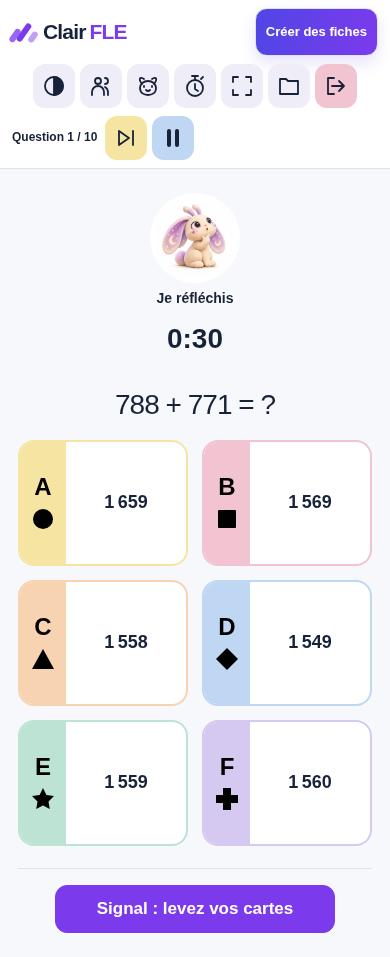
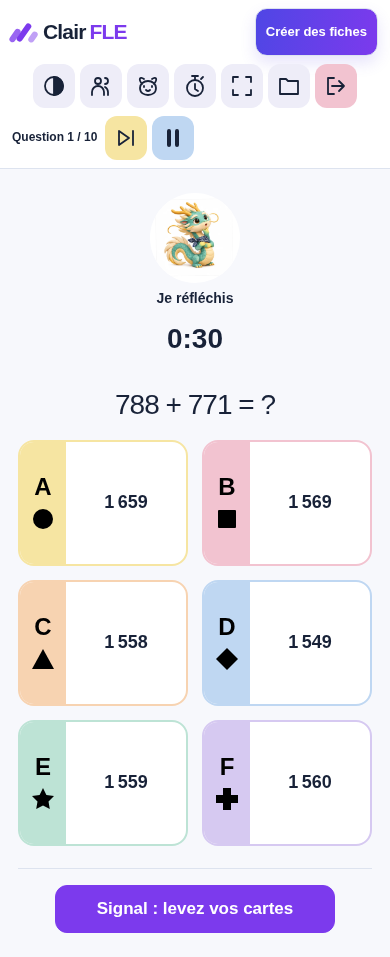
Add Asian dragon and animate every mascot pose

Changed region(s): [[0.4, 0.2121, 0.5846, 0.303]]

diff --git a/src/App.css b/src/App.css
@@ -40,7 +40,7 @@ body { font-size: 16px; }
 @media(max-width:850px){.topbar nav{display:none}.hero{grid-template-columns:1fr;gap:35px;padding-top:45px}.workspace{grid-template-columns:1fr}.settings-panel{border-right:0;border-bottom:1px solid var(--line)}.info-band{grid-template-columns:1fr 1fr}.info-band>p{grid-column:span 2}.footer{flex-wrap:wrap;gap:12px}}@media(max-width:550px){.topbar{height:68px;padding:0 16px}.topbar .button{font-size:calc(11px * var(--app-font-scale, 1));padding:10px 12px}.hero{min-height:auto;padding:40px 18px 48px}.hero h1{font-size:clamp(calc(38px * var(--app-font-scale, 1)),calc(12vw * var(--app-font-scale, 1)),calc(48px * var(--app-font-scale, 1)))}.hero-actions{align-items:flex-start;flex-direction:column;gap:16px}.landing-art{min-height:270px}.subject-section{padding:50px 18px 65px}.subject-grid{grid-template-columns:1fr}.info-band{grid-template-columns:1fr;padding:50px 24px;gap:22px}.info-band>p{grid-column:auto}.footer{padding:25px 20px;flex-direction:column;gap:10px}.generator-page{padding:35px 12px 65px}.generator-intro h1{font-size:calc(38px * var(--app-font-scale, 1))}.settings-panel{padding:20px 16px}.result-head{padding:22px 16px}.sheet-stage{padding:15px 0;overflow:hidden}.exercise-grid{grid-template-columns:1fr}.result-actions{padding:20px 16px;flex-direction:column}.preview-tabs{justify-content:center}}
 @page a5-double{size:A4 landscape;margin:0}
 @media print{@page{size:A4 portrait;margin:0}body{background:#fff}.no-print,.topbar,.generator-intro,.settings-panel,.result-head,.result-actions,.preview-tabs,.coord-page-palette{display:none!important}.generator-page{padding:0}.workspace{display:block;border:0;box-shadow:none}.result-panel{background:#fff}.sheet-stage{display:block;padding:0}.sheet-stage .worksheet-sheet{width:210mm;min-height:297mm;margin:0;transform:none;border:0;box-shadow:none}.sheet-stage .worksheet-sheet.is-a5-double{page:a5-double;width:297mm;min-height:210mm;height:210mm;max-height:210mm;flex-direction:row;padding:0}.exercise-item{break-inside:avoid}}
-@media(prefers-reduced-motion:reduce){*{scroll-behavior:auto!important;transition:none!important;animation:none!important}}
+@media(prefers-reduced-motion:reduce){*:not([data-ci-motion]){scroll-behavior:auto!important;transition:none!important;animation:none!important}}
 .generator-intro{display:none!important}.settings-panel{display:flex;flex-direction:column}.settings-panel .panel-title{order:1}.settings-panel .page-tabs{order:2}.settings-panel .field-group{order:3}.settings-panel .exercise-types,.exercise-types{order:4;margin:0 0 22px}.settings-panel>.exercise-types{display:block!important;visibility:visible!important}.settings-panel>.panel-title{order:1}.settings-panel>.page-tabs{order:2}.settings-panel>.field-group{order:3}.settings-panel .custom-header-form{order:5}.settings-panel .settings-actions{order:6}.settings-panel .exercise-types .section-heading{margin-top:0}.settings-panel .section-heading{align-items:baseline;margin-bottom:10px}.settings-panel .section-heading h3{font-size:calc(18px * var(--app-font-scale, 1))}.settings-panel .section-heading .eyebrow{font-size:calc(10px * var(--app-font-scale, 1));margin-bottom:4px}.settings-panel .exercise-type-grid{grid-template-columns:repeat(2,minmax(0,1fr));gap:10px}.settings-panel .exercise-type-card{min-height:132px;border-radius:16px;padding:12px;gap:5px}.settings-panel .type-visual{height:42px}.settings-panel .type-visual b{font-size:calc(15px * var(--app-font-scale, 1))}.settings-panel .type-visual .geometry-figure{height:42px}.settings-panel .exercise-type-card strong{font-size:calc(13px * var(--app-font-scale, 1))}.settings-panel .exercise-type-card small{font-size:calc(10px * var(--app-font-scale, 1));line-height:1.25}.exercise-types{margin:28px 0 20px}.section-heading{display:flex;align-items:end;justify-content:space-between;margin-bottom:14px}.section-heading h3{margin:5px 0 0;font-size:calc(22px * var(--app-font-scale, 1))}.muted{color:var(--muted);font-size:calc(12px * var(--app-font-scale, 1))}.exercise-type-grid{display:grid;grid-template-columns:repeat(4,minmax(0,1fr));gap:12px}.exercise-type-card{min-height:150px;border:1px solid var(--line);border-radius:18px;background:#fff;padding:14px;text-align:left;display:flex;flex-direction:column;gap:7px;transition:.2s;box-shadow:0 3px 12px #28252f08}.exercise-type-card:hover,.exercise-type-card.selected{border-color:#72b7a7;transform:translateY(-2px);box-shadow:0 8px 18px #3587761c}.exercise-type-card.selected{background:#f4fbf8}.exercise-type-card strong{font-size:calc(14px * var(--app-font-scale, 1))}.exercise-type-card small{color:var(--muted);font-size:calc(11px * var(--app-font-scale, 1));line-height:1.35}.type-visual{height:58px;display:flex;align-items:center;color:#358776}.type-visual b{white-space:pre-line;font-size:calc(17px * var(--app-font-scale, 1));line-height:1.1}.exercise-item .item-content>strong{white-space:pre-line;display:block}.exercise-item .item-content .answer-line{min-width:115px}.type-visual .geometry-figure{width:74px;height:52px;margin:0}@media(max-width:850px){.exercise-type-grid{grid-template-columns:repeat(2,minmax(0,1fr))}}@media(max-width:550px){.exercise-type-grid{grid-template-columns:1fr 1fr;gap:8px}.exercise-type-card{min-height:136px;padding:11px}.exercise-type-card strong{font-size:calc(12px * var(--app-font-scale, 1))}.exercise-type-card small{font-size:calc(10px * var(--app-font-scale, 1))}}.page-tabs{display:flex;gap:8px;flex-wrap:wrap;margin:0 0 18px}
 .page-tabs button,.mode-toggle.is-tabs button{
   position:relative;display:flex;align-items:center;justify-content:center;

diff --git a/src/interactive/projection.css b/src/interactive/projection.css
@@ -639,9 +639,6 @@
 @media screen and (max-width: 700px) {
   .ci-app .ci-result-portrait { width: 96px; margin: auto; }
 }
-@media (prefers-reduced-motion: reduce) {
-  .ci-confetti, .ci-tears { display: none; }
-}
 
 .ci-app .ci-mascot {
   display: inline-grid;
@@ -710,4 +707,40 @@
   .ci-solo-session.ci-is-revealed .ci-margin-left { grid-row: 2; }
   .ci-solo-session.ci-is-revealed .ci-margin-left:empty { display: none; }
   .ci-app .ci-solo-session.ci-is-revealed .ci-round-questions { grid-row: 3; }
+}
+
+.ci-app[data-mascot='dragon'] .ci-mascot-sprite { background-image: url('/lib/images/interactive/dragon-mascot.webp'); }
+
+/* Mascot motion is always enabled, including under reduced-motion device settings. */
+.ci-mascot-sprite { transform-origin: 50% 70%; }
+.ci-mascot-thinking { animation: ci-mascot-think 3s ease-in-out infinite; }
+.ci-mascot-cards-up { animation: ci-mascot-vote 1.8s ease-in-out infinite; }
+.ci-mascot-discussion { animation: ci-mascot-talk 1.4s ease-in-out infinite; }
+.ci-mascot-correct { animation: ci-mascot-celebrate .9s ease-in-out infinite; }
+.ci-mascot-incorrect { animation: ci-mascot-sigh 2s ease-in-out infinite; }
+.ci-mascot-pause { animation: ci-mascot-breathe 3.2s ease-in-out infinite; }
+@keyframes ci-mascot-think {
+  0%, 100% { transform: translateY(0) rotate(-1deg); }
+  50% { transform: translateY(-3px) rotate(1.5deg); }
+}
+@keyframes ci-mascot-vote {
+  0%, 100% { transform: translateY(0) rotate(-2deg); }
+  50% { transform: translateY(-5px) rotate(2deg); }
+}
+@keyframes ci-mascot-talk {
+  0%, 100% { transform: translateY(0) rotate(-1deg); }
+  50% { transform: translateY(-3px) rotate(2deg) scale(1.015); }
+}
+@keyframes ci-mascot-celebrate {
+  0%, 100% { transform: translateY(0) scale(1); }
+  45% { transform: translateY(-7px) scale(1.025); }
+  75% { transform: translateY(1px) scale(.98, 1.02); }
+}
+@keyframes ci-mascot-sigh {
+  0%, 100% { transform: translateY(0) rotate(-1.5deg); }
+  50% { transform: translateY(3px) rotate(1.5deg) scale(.985); }
+}
+@keyframes ci-mascot-breathe {
+  0%, 100% { transform: scale(1); }
+  50% { transform: scale(1.025); }
 }

diff --git a/tests/interactive/mascot-fixture.tsx b/tests/interactive/mascot-fixture.tsx
@@ -1,0 +1,23 @@
+import { createRoot } from 'react-dom/client'
+import { Mascot, type MascotPose } from '../../src/interactive/components/Mascot'
+import { MASCOTS } from '../../src/interactive/domain/mascot'
+import { ResultFeedback } from '../../src/interactive/components/ResultFeedback'
+
+const poses: MascotPose[] = ['thinking', 'cards-up', 'discussion', 'correct', 'incorrect', 'pause']
+export function mountMascots() {
+  const container = document.createElement('div')
+  container.id = 'mascot-test-root'
+  document.body.append(container)
+  createRoot(container).render(<>
+    {MASCOTS.map((mascot) => <section key={mascot.id} className="ci-app" data-mascot={mascot.id} style={{ display: 'grid', gridTemplateColumns: 'repeat(6, 120px)', gap: 16, padding: 24 }}>
+      <h2 style={{ gridColumn: '1 / -1' }}>{mascot.label}</h2>
+      {poses.map((pose) => <div key={pose} data-test-mascot={mascot.id} data-test-pose={pose} style={{ width: 110 }}>
+        <Mascot pose={pose} label={`${mascot.label} ${pose}`} className="ci-phase-art" />
+        <p>{pose}</p>
+      </div>)}
+    </section>)}
+    <section className="ci-app" data-mascot="dragon" data-test-effects style={{ display: 'flex', gap: 32, padding: 40 }}>
+      <ResultFeedback correct /><ResultFeedback correct={false} />
+    </section>
+  </>)
+}

diff --git a/src/interactive/components/ResultFeedback.tsx b/src/interactive/components/ResultFeedback.tsx
@@ -9,10 +9,10 @@ export function ResultFeedback({ correct }: { correct: boolean }) {
       {correct ? (
         <div className="ci-confetti">
           {Array.from({ length: 24 }, (_, i) => (
-            <i key={i} style={{ '--i': i, '--x': `${Math.sin(i * 2.4) * 115}px`, '--y': `${-35 - (i % 5) * 24}px`, '--spin': `${(i % 2 ? 1 : -1) * (180 + i * 33)}deg`, '--confetti': ['#ffe27b', '#a6d7bc', '#c2b2ee', '#f7a1b9', '#91c5ee'][i % 5] } as CSSProperties} />
+            <i data-ci-motion key={i} style={{ '--i': i, '--x': `${Math.sin(i * 2.4) * 115}px`, '--y': `${-35 - (i % 5) * 24}px`, '--spin': `${(i % 2 ? 1 : -1) * (180 + i * 33)}deg`, '--confetti': ['#ffe27b', '#a6d7bc', '#c2b2ee', '#f7a1b9', '#91c5ee'][i % 5] } as CSSProperties} />
           ))}
         </div>
-      ) : <div className="ci-tears"><i /><i /><i /><i /></div>}
+      ) : <div className="ci-tears"><i data-ci-motion /><i data-ci-motion /><i data-ci-motion /><i data-ci-motion /></div>}
     </div>
   )
 }

diff --git a/src/interactive/components/Mascot.tsx b/src/interactive/components/Mascot.tsx
@@ -1,5 +1,5 @@
 export type { MascotKind } from '../domain/mascot'
 export type MascotPose = 'thinking' | 'cards-up' | 'discussion' | 'correct' | 'incorrect' | 'pause'
 export function Mascot({ pose, label, className = '' }: { pose: MascotPose; label: string; className?: string }) {
-  return <span className={`ci-mascot ${className}`} role="img" aria-label={label}><span className={`ci-mascot-sprite ci-mascot-${pose}`} /></span>
+  return <span className={`ci-mascot ${className}`} role="img" aria-label={label}><span data-ci-motion className={`ci-mascot-sprite ci-mascot-${pose}`} /></span>
 }

diff --git a/src/interactive/domain/mascot.ts b/src/interactive/domain/mascot.ts
@@ -1,8 +1,9 @@
-export type MascotKind = 'leaf' | 'owl' | 'octopus' | 'hedgehog' | 'rabbit'
+export type MascotKind = 'leaf' | 'owl' | 'octopus' | 'hedgehog' | 'rabbit' | 'dragon'
 export const MASCOTS: { id: MascotKind; label: string }[] = [
   { id: 'leaf', label: 'Esprit feuille' },
   { id: 'owl', label: 'Hibou' },
   { id: 'octopus', label: 'Pieuvre' },
   { id: 'hedgehog', label: 'Hérisson' },
   { id: 'rabbit', label: 'Lapin lunaire' },
+  { id: 'dragon', label: 'Dragon' },
 ]

diff --git a/src/interactive/interactive.css b/src/interactive/interactive.css
@@ -1058,7 +1058,7 @@
   }
 }
 @media (prefers-reduced-motion: reduce) {
-  .ci-app * {
+  .ci-app *:not([data-ci-motion]) {
     animation: none !important;
     transition: none !important;
     scroll-behavior: auto !important;

diff --git a/docs/interactive/livraison-classe-solo-mascottes.md b/docs/interactive/livraison-classe-solo-mascottes.md
@@ -13,9 +13,9 @@ En Solo, toutes les questions audio sélectionnées sont conservées individuell
 
 ## Mascottes
 
-Cinq choix mémorisés localement : **Esprit feuille**, **Hibou**, **Pieuvre**, **Hérisson**, **Lapin lunaire**. Chaque personnage a six poses : réflexion, vote, discussion, juste, faux et pause. Les cinq planches WebP ont été générées pour cette évolution ; les poses sont affichées par coordonnées CSS dans la même planche, sans téléchargement d’un fichier par état.
+Six choix mémorisés localement : **Esprit feuille**, **Hibou**, **Pieuvre**, **Hérisson**, **Lapin lunaire**, **Dragon asiatique**. Chaque personnage a six poses : réflexion, vote, discussion, juste, faux et pause. Les six planches WebP ont été générées pour cette évolution ; les poses sont affichées par coordonnées CSS dans la même planche, sans téléchargement d’un fichier par état.
 
-Une réponse juste en Solo affiche la mascotte qui félicite et une explosion de confettis ; une réponse fausse affiche la mascotte triste et des larmes animées. Les animations sont décoratives, limitées à quelques secondes et désactivées avec `prefers-reduced-motion`. Le verdict reste écrit indépendamment de l’animation. Les douze animaux du zodiaque sont des propositions visuelles soumises au propriétaire, pas des choix intégrés.
+Une réponse juste en Solo affiche la mascotte qui félicite et une explosion de confettis ; une réponse fausse affiche la mascotte triste et des larmes animées. Chaque pose bouge : réflexion et pause respirent, le vote se soulève, la discussion se balance, la joie sautille et la tristesse oscille avec ses larmes. Les confettis et les larmes durent quelques secondes. Sur demande explicite du propriétaire, les mascottes et leurs effets restent animés indépendamment du réglage `prefers-reduced-motion`. Le verdict reste écrit indépendamment de l’animation. Le Dragon asiatique de la planche du zodiaque est intégré ; les onze autres animaux restent des propositions visuelles soumises au propriétaire.
 
 ## Mobile et numérotation
 
@@ -46,8 +46,11 @@ PLAYWRIGHT_CHROMIUM_EXECUTABLE_PATH=/usr/bin/chromium npm run test:interactive:m
 PLAYWRIGHT_CHROMIUM_EXECUTABLE_PATH=/usr/bin/chromium node tests/interactive/solo-browser.mjs
 PLAYWRIGHT_CHROMIUM_EXECUTABLE_PATH=/usr/bin/chromium node tests/interactive/mobile-browser.mjs
 PLAYWRIGHT_CHROMIUM_EXECUTABLE_PATH=/usr/bin/chromium node tests/interactive/resume-browser.mjs
+PLAYWRIGHT_CHROMIUM_EXECUTABLE_PATH=/usr/bin/chromium node tests/interactive/mascot-browser.mjs
 ```
 
-Les scénarios Solo couvrent la bonne réponse, l’absence de réponse, le délai de cinq secondes, les deux pauses, l’audio, les animations et le bilan. Les scénarios mobiles couvrent 360, 390 et 700 px, l’alignement des en-têtes, l’accès aux options, les cinq mascottes, la mémorisation et le retrait du texte sur plusieurs lignes. Les gestes et les horloges sont simulés dans Chromium ; aucun essai sur ENI ou téléphone physique n’est revendiqué.
+Les scénarios Solo couvrent la bonne réponse, l’absence de réponse, le délai de cinq secondes, les deux pauses, l’audio, les animations et le bilan. Les scénarios mobiles couvrent 360, 390 et 700 px, l’alignement des en-têtes, l’accès aux options, les six mascottes, la mémorisation et le retrait du texte sur plusieurs lignes. Les gestes et les horloges sont simulés dans Chromium ; aucun essai sur ENI ou téléphone physique n’est revendiqué.
 
 Le scénario `resume-browser.mjs` interrompt une réflexion puis une correction Solo après environ deux secondes, recharge la page et vérifie la reprise des seules trois secondes restantes, en conservant la pause, le mode et le verdict. Les instantanés sans minuteur de la première version restent lisibles. Un minuteur invalide est refusé sans écraser la sauvegarde.
+
+La vérification des mascottes affiche les six personnages dans leurs six poses et mesure les transformations produites par le moteur d’animation du navigateur. Les 36 poses bougent, les six planches se décodent, et les confettis/larmes restent actifs avec la préférence de réduction du mouvement activée, conformément à la demande du propriétaire.

diff --git a/public/lib/images/interactive/README.md b/public/lib/images/interactive/README.md
@@ -1,5 +1,7 @@
-# Illustrations du rituel de classe
+# Mascottes du jeu collectif
 
-Quatre illustrations originales générées pour ClairFLE le 10 novembre 2026 : réflexion, carte levée, choix au tableau et discussion. Style semi-réaliste cohérent avec les scènes pédagogiques TCF, jeunes adultes, fond blanc et composition prévue pour un affichage circulaire. Aucun texte ni logo dans les images.
+Les fichiers `leaf-mascot.webp`, `owl-mascot.webp`, `octopus-mascot.webp`, `hedgehog-mascot.webp`, `rabbit-mascot.webp` et `dragon-mascot.webp` sont des illustrations originales générées pour ClairFLE. Le dragon reprend le modèle asiatique choisi par le propriétaire.
 
-Les fichiers WebP sont les ressources de production. Le recadrage rond est appliqué par CSS (`.ci-phase-art`), avec un texte alternatif et un libellé de phase. Les PNG source ne font pas partie du chargement de l’application.
+Chaque planche contient six poses sur une grille de trois colonnes et deux rangées : réflexion, vote, discussion ; joie, tristesse, pause. `Mascot.tsx` et `projection.css` sélectionnent la pose et lui donnent un mouvement adapté. `ResultFeedback.tsx` ajoute les confettis et les larmes.
+
+Sur demande du propriétaire, ces mouvements restent actifs avec le réglage système de réduction des animations. Les quatre anciens portraits WebP sont conservés pour la compatibilité des anciennes versions et ne sont plus utilisés par le moteur actuel.

diff --git a/docs/interactive/README.md b/docs/interactive/README.md
@@ -1,6 +1,6 @@
 # ClairFLE — jouer avec la classe
 
-Mise à jour : [modes Classe/Solo, mobile et cinq mascottes](livraison-classe-solo-mascottes.md). Cette livraison remplace le rituel avec sélection au tableau décrit ci-dessous : en Classe, le vote est collectif sans clic ; en Solo, correction et passage après cinq secondes sont automatiques. Les menus Mode et Mascotte sont des icônes. La reprise de séance utilise désormais IndexedDB.
+Mise à jour : [modes Classe/Solo, mobile et six mascottes](livraison-classe-solo-mascottes.md). Cette livraison remplace le rituel avec sélection au tableau décrit ci-dessous : en Classe, le vote est collectif sans clic ; en Solo, correction et passage après cinq secondes sont automatiques. Les menus Mode et Mascotte sont des icônes. La reprise de séance utilise désormais IndexedDB.
 
 Le mode interactif reprend le prototype `35934ad`, fusionné avec le `main` actuel puis adapté aux demandes de classe. Il remplace l’ancien jeu dans le générateur. Les fiches et leur format de sauvegarde v1 restent compatibles.
 

diff --git a/docs/interactive/guide-enseignant.md b/docs/interactive/guide-enseignant.md
@@ -1,4 +1,4 @@
-> Mise à jour : les [modes Classe/Solo et les cinq mascottes](livraison-classe-solo-mascottes.md) remplacent le rituel avec sélection au tableau décrit dans ce guide. Les icônes Mode et Mascotte ouvrent leurs choix dans la barre du haut.
+> Mise à jour : les [modes Classe/Solo et les six mascottes](livraison-classe-solo-mascottes.md) remplacent le rituel avec sélection au tableau décrit dans ce guide. Les icônes Mode et Mascotte ouvrent leurs choix dans la barre du haut.
 
 # Jouer en classe
 
